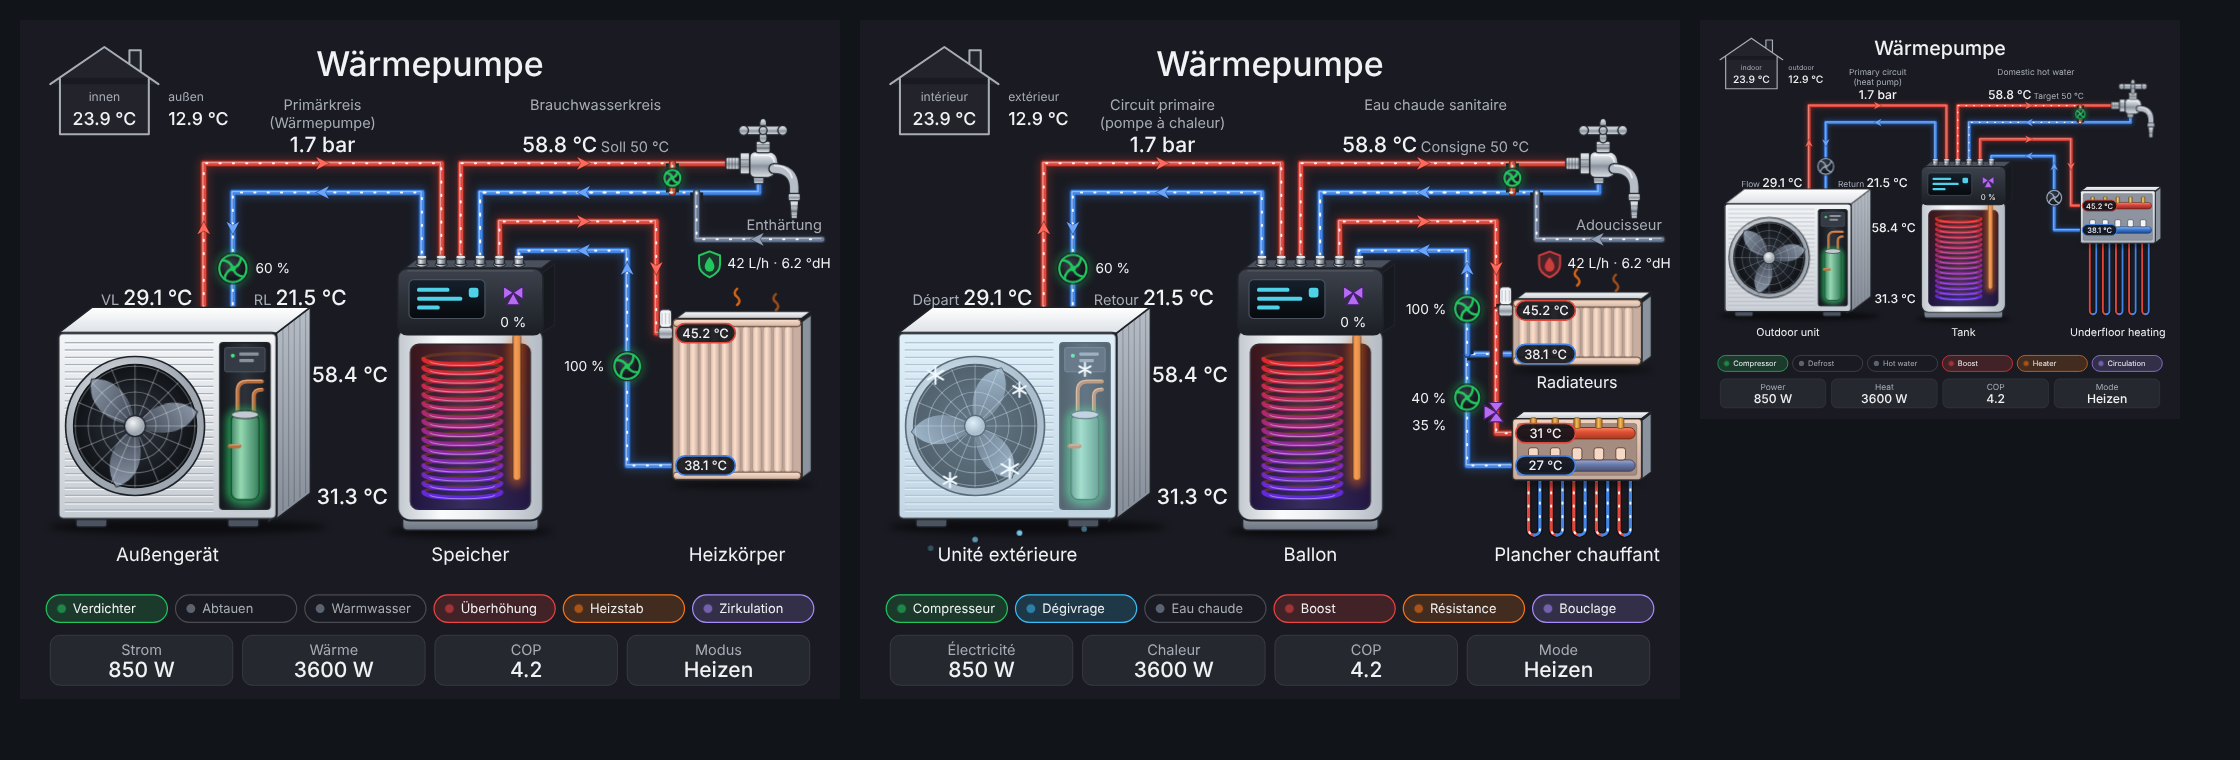
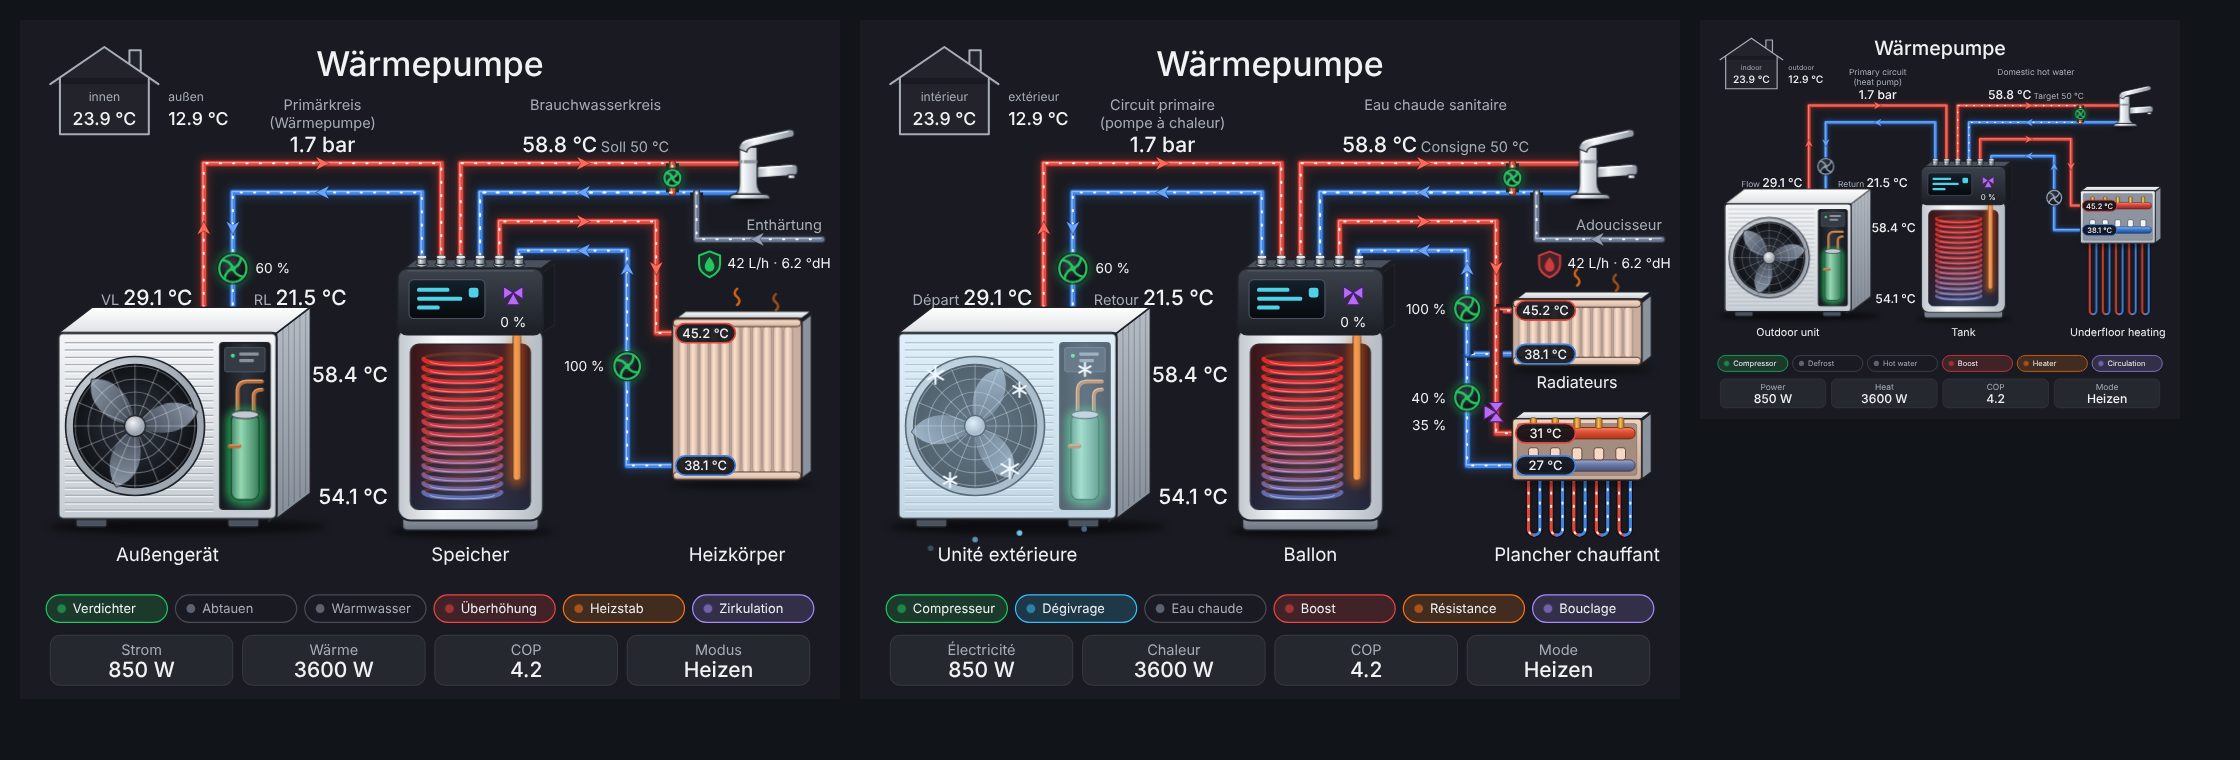
v1.5.0: Einhebelmischer, realistische Speicherfarbe
- Wasserhahn als Einhebel-Waschtischarmatur
- Thermostatventil am Heizkörper entfernt
- Speicherfarbe: oben nach Temperatur, unten immer etwas bläulicher,
  stärker je größer die Differenz oben/unten (max. ~5 K)

Claude-Session: https://claude.ai/code/session_018NgiuVxn5rt43Z9iyTeyzC

diff --git a/heatpump-flow-card.js b/heatpump-flow-card.js
@@ -5,7 +5,7 @@
  * https://github.com/IngoPodolak/heatpump-flow-card
  */
 
-const HP_VERSION = "1.4.0";
+const HP_VERSION = "1.5.0";
 
 /* ====================== Übersetzungen ====================== */
 const HP_I18N = {
@@ -293,12 +293,9 @@ const HP_STYLE = `
   /* Wärmeübergabe */
   .r-top { fill: url(#UID-radbar); stroke: var(--ol); stroke-width: 1.8; stroke-linejoin: round; }
   .r-side { fill: #8b939e; stroke: var(--ol); stroke-width: 1.8; stroke-linejoin: round; }
-  .r-rib { fill: none; stroke: #b9c0c9; stroke-width: 1.2; }
   .r-back { fill: #b9bfc8; stroke: var(--ol); stroke-width: 2; }
   .r-col { fill: url(#UID-radcol); stroke: #8f97a2; stroke-width: 1; }
   .r-bar { fill: url(#UID-radbar); stroke: var(--ol); stroke-width: 1.2; }
-  .r-valve { fill: url(#UID-chrome); stroke: var(--ol); stroke-width: 1.2; }
-  .r-head { fill: #f4f5f7; stroke: var(--ol); stroke-width: 1.2; }
   .glow { fill: #f97316; opacity: 0; transition: opacity .8s; }
   .emitter.on .glow { opacity: .22; }
   .wave { fill: none; stroke: #f97316; stroke-width: 3; stroke-linecap: round; opacity: 0; }
@@ -320,6 +317,8 @@ const HP_STYLE = `
   .chrome { fill: url(#UID-chrome); stroke: var(--ol); stroke-width: 1.5; }
   .spout-ol { fill: none; stroke: var(--ol); stroke-width: 12.5; stroke-linecap: round; stroke-linejoin: round; }
   .spout { fill: none; stroke: #b7bec8; stroke-width: 9.5; stroke-linecap: round; stroke-linejoin: round; }
+  .tapc { fill: url(#UID-chromev); stroke: var(--ol); stroke-width: 1.6; stroke-linejoin: round; }
+  .tap-band { fill: #8b939e; }
   .thread { fill: none; stroke: rgba(0,0,0,.4); stroke-width: 1; }
   .tap-hl { fill: none; stroke: rgba(255,255,255,.8); stroke-width: 1.8; stroke-linecap: round; }
   .spout-hl { fill: none; stroke: rgba(255,255,255,.75); stroke-width: 2; stroke-linecap: round; }
@@ -437,8 +436,8 @@ class HeatpumpFlowCard extends HTMLElement {
     front += arrow(220, 250, "u", "hot") + arrow(256, 250, "d", "cold");
 
     /* Warmwasser */
-    back += pipe(`M538 ${PY} V170 H870`, "hot");
-    back += pipe(`M907 192 V206 H562 V${PY}`, "cold");
+    back += pipe(`M538 ${PY} V170 H883`, "hot");
+    back += pipe(`M883 206 H562 V${PY}`, "cold");
     front += arrow(AX2, 170, "r", "hot") + arrow(AX2, 206, "l", "cold");
     if (has("circulation")) {
       back += pipe("M800 170 V206", "hot");
@@ -518,9 +517,6 @@ class HeatpumpFlowCard extends HTMLElement {
           ${cols}
           <rect class="r-bar" x="${EX + 1}" y="${z.y0 + 1}" width="${EW - 2}" height="9" rx="4.5"/>
           <rect class="r-bar" x="${EX + 1}" y="${z.y0 + z.h - 10}" width="${EW - 2}" height="9" rx="4.5"/>
-          <rect class="r-valve" x="${EX - 17}" y="${z.vin - 7}" width="17" height="14" rx="3"/>
-          <rect class="r-head" x="${EX - 16}" y="${z.vin - 29}" width="15" height="22" rx="4"/>
-          <path class="r-rib" d="M${EX - 13} ${z.vin - 25} V${z.vin - 11} M${EX - 8.5} ${z.vin - 25} V${z.vin - 11} M${EX - 4} ${z.vin - 25} V${z.vin - 11}"/>
           <rect class="glow" x="${EX}" y="${z.y0}" width="${EW}" height="${z.h}" rx="6"/>
           ${waves(EX, EW, z.y0 - 14)}`;
       } else {
@@ -648,28 +644,17 @@ class HeatpumpFlowCard extends HTMLElement {
         <text class="s" x="603" y="372" text-anchor="middle"><tspan data-val="zone1_mixer">–</tspan></text></g>` : ""}`;
 
     /* Zapfstelle: Wand-Auslaufventil mit Gewinde, Sechskant, Kreuzgriff und Schlauchtülle */
-    const tap = `<g transform="translate(866 170) scale(1.1) translate(-866 -170)">
-      <rect class="chrome" x="866" y="163" width="16" height="14" rx="2"/>
-      <path class="thread" d="M869.5 163.5 V176.5 M873 163.5 V176.5 M876.5 163.5 V176.5 M880 163.5 V176.5"/>
-      <rect class="chrome" x="882" y="158" width="11" height="24" rx="1.5"/>
-      <path class="thread" d="M882.5 166 H892.5 M882.5 174 H892.5"/>
-      <rect class="chrome" x="897" y="184" width="12" height="9" rx="2"/>
-      <path class="chrome" d="M893 163 Q893 157 900 157 H914 Q924 157 925 170 Q924 184 914 186 H900 Q893 186 893 180 Z"/>
-      <path class="tap-hl" d="M898 161 H913 Q919 161 920.5 168"/>
-      <rect class="chrome" x="900" y="145" width="16" height="13" rx="2"/>
-      <path class="thread" d="M900.5 149 H915.5 M900.5 153 H915.5"/>
-      <rect class="chrome" x="905" y="132" width="6" height="14" rx="1"/>
-      <ellipse class="chrome" cx="908" cy="126" rx="4" ry="6.5"/>
-      <path class="chrome" d="M886 133 Q886 128 891 128 H925 Q930 128 930 133 Q930 138 925 138 H891 Q886 138 886 133 Z"/>
-      <circle class="chrome" cx="886" cy="133" r="5.5"/><circle class="chrome" cx="930" cy="133" r="5.5"/>
-      <ellipse class="chrome" cx="908" cy="141" rx="4.5" ry="6"/>
-      <circle class="chrome" cx="908" cy="133" r="4.5"/>
-      <path class="spout-ol" d="M920 176 Q942 176 943 196 V206"/>
-      <path class="spout" d="M920 176 Q942 176 943 196 V206"/>
-      <path class="spout-hl" d="M921 172.5 Q937 173 940.5 186"/>
-      <rect class="chrome" x="936" y="204" width="14" height="8" rx="2"/>
-      <path class="chrome" d="M938 212 H948 L946.5 232 H939.5 Z"/>
-      <path class="thread" d="M938.5 218 H947.5 M939 224 H947 M939.5 229 H946.5"/></g>`;
+    const tap = `
+      <ellipse class="shadow" cx="896" cy="216" rx="24" ry="3.5" ${soft}/>
+      <path class="tapc" d="M871 214 Q871 208 878 208 H914 Q921 208 921 214 Z"/>
+      <path class="tapc" d="M883 150 H905 V194 Q905 205 914 208 H878 Q883 205 883 194 Z"/>
+      <path class="tapc" d="M905 174 L949 171 Q955 171 955 176 V180 Q955 185 949 185 L905 188 Z"/>
+      <rect class="tapc" x="943" y="184" width="9" height="5" rx="1.5"/>
+      <rect class="tap-band" x="883" y="166" width="22" height="4"/>
+      <path class="tap-hl" d="M887.5 153 V203"/>
+      <path class="tap-hl" d="M908 175.5 L948 173"/>
+      <path class="tapc" d="M882 152 Q883 141 895 139 L944 128 Q951 127 951 133 Q951 137 946 138 L900 149 Q892 151 892 156 Z"/>
+      <path class="tap-hl" d="M887 145 Q892 141.5 899 140.5 L943 130.5"/>`;
 
     /* Haus-Symbol mit Innen- und Außentemperatur (höher, mehr Abstand zu den Leitungen) */
     const house = (has("indoor_temp") || has("outdoor_temp")) ? `
@@ -737,6 +722,7 @@ class HeatpumpFlowCard extends HTMLElement {
           <defs>
             <linearGradient id="${u}-tank" x1="0" y1="0" x2="0" y2="1">
               <stop id="${u}-top" offset="0" stop-color="#e5483e"/>
+              <stop id="${u}-mid" offset=".55" stop-color="#d0506a"/>
               <stop id="${u}-bot" offset="1" stop-color="#3f7fd9"/>
             </linearGradient>
             ${lg("ufront", 0, 1, [[0, "#f3f5f7"], [1, "#c6ccd3"]])}
@@ -750,6 +736,7 @@ class HeatpumpFlowCard extends HTMLElement {
             ${lg("tcut", 1, 0, [[0, "#0d0f14"], [0.45, "#2b303a"], [1, "#101318"]])}
             ${lg("head", 0, 1, [[0, "#3c424c"], [1, "#1c1f25"]])}
             ${lg("screen", 0, 1, [[0, "#14202c"], [1, "#070a0e"]])}
+            ${lg("chromev", 1, 0, [[0, "#a3abb5"], [0.28, "#f7f9fb"], [0.55, "#d3d8de"], [1, "#8c949f"]])}
             ${lg("chrome", 0, 1, [[0, "#f6f8fa"], [0.45, "#a9b1bb"], [0.55, "#8b939e"], [1, "#e1e5ea"]])}
             ${lg("radcol", 1, 0, [[0, "#c9ced5"], [0.4, "#ffffff"], [1, "#b8bec6"]])}
             ${lg("radbar", 0, 1, [[0, "#ffffff"], [1, "#c3c8cf"]])}
@@ -786,6 +773,7 @@ class HeatpumpFlowCard extends HTMLElement {
     this._leakEl = this.shadowRoot.querySelector(".leak");
     this._stopTop = this.shadowRoot.getElementById(`${u}-top`);
     this._stopBot = this.shadowRoot.getElementById(`${u}-bot`);
+    this._stopMid = this.shadowRoot.getElementById(`${u}-mid`);
     this._entityIds = Object.keys(c).filter((k) => !HP_NON_ENTITY_KEYS.includes(k) && typeof c[k] === "string").map((k) => c[k]);
     this._last = null;
 
@@ -867,13 +855,30 @@ class HeatpumpFlowCard extends HTMLElement {
     s.setProperty("--circ-dur", "1.2s");
     s.setProperty("--soft-dur", "1.4s");
 
-    const col = (t) => {
-      if (t === null) return null;
-      const x = Math.min(1, Math.max(0, (t - 20) / 38));
-      return `hsl(${Math.round(215 + 145 * x) % 360}, 75%, 52%)`;
+    /* Speicherfarbe: oben nach Temperatur (blau → violett → rot).
+       Unten wird diese Farbe Richtung Blau gemischt – immer etwas,
+       stärker je größer die Differenz oben/unten (max. ~5 K). */
+    const rgbOf = (x) => {
+      const hh = ((215 + 145 * x) % 360) / 360, ss = 0.75, ll = 0.52;
+      const q = ll < 0.5 ? ll * (1 + ss) : ll + ss - ll * ss, pp = 2 * ll - q;
+      const f = (t) => { t = (t + 1) % 1; return t < 1 / 6 ? pp + (q - pp) * 6 * t : t < 0.5 ? q : t < 2 / 3 ? pp + (q - pp) * (2 / 3 - t) * 6 : pp; };
+      return [f(hh + 1 / 3), f(hh), f(hh - 1 / 3)].map((v) => Math.round(v * 255));
     };
-    const top = col(num("tank_top_temp") ?? num("dhw_temp"));
-    const bot = col(num("tank_bottom_temp"));
+    const BLUE = [63, 127, 217];
+    const css = (c3) => `rgb(${c3.join(",")})`;
+    const mix = (a3, w) => a3.map((v, n) => Math.round(v * (1 - w) + BLUE[n] * w));
+    const tTop = num("tank_top_temp") ?? num("dhw_temp");
+    const tBot = num("tank_bottom_temp");
+    let top = null, mid = null, bot = null;
+    const ref = tTop ?? tBot;
+    if (ref !== null) {
+      const base = rgbOf(Math.min(1, Math.max(0, (ref - 20) / 38)));
+      const diff = tTop !== null && tBot !== null ? Math.min(5, Math.max(0, tTop - tBot)) : 0;
+      top = css(base);
+      mid = css(mix(base, 0.12 + 0.08 * (diff / 5)));
+      bot = css(mix(base, 0.5 + 0.35 * (diff / 5)));
+    }
+    if (this._stopMid && mid) this._stopMid.setAttribute("stop-color", mid);
     if (this._stopTop && top) this._stopTop.setAttribute("stop-color", top);
     if (this._stopBot && bot) this._stopBot.setAttribute("stop-color", bot);
   }
